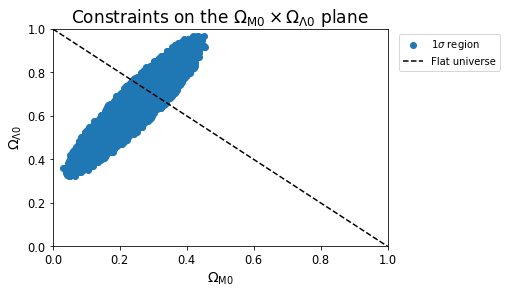
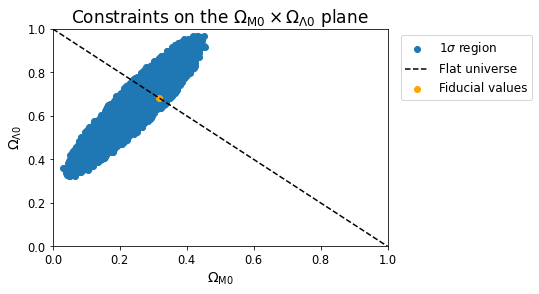
slight final updates to the plotting scripts

diff --git a/PowerSpectrumPlots.py b/PowerSpectrumPlots.py
@@ -171,7 +171,7 @@ for i in axes:
     i.yaxis.labelpad = 20
     i.set_xscale('log')
     i.set_xticks(xticks, labels=[str(x) for x in xticks])
-    i.tick_params(axis='both', labelsize=15)
+    i.tick_params(axis='both', labelsize=17)
 axes[0].set_title('CMB Temperature power spectrum', fontsize = 25, pad = 10)
 axes[0].set_ylabel(r'$\ell(\ell+1)C_\ell^{TT}/\,2\pi\ (\mu K^2)$', fontsize = 23)
 axes[0].plot(valuesdic1['ell'], valuesdic1['CellTT'], label = 'Numerical prediction')
@@ -204,7 +204,7 @@ ax.errorbar(EE_ell_errors['ell'], EE_ell_errors['Cell'], yerr = error_array_EE, 
 ax.set_xlim([2,2000])
 xticks = [500, 1000, 1500, 2000]
 ax.set_xticks(xticks, labels=[str(x) for x in xticks])
-ax.tick_params(axis='both', labelsize=17)
+ax.tick_params(axis='both', labelsize=19)
 
 axins = inset_axes(ax, width="30%", height="35%", loc="lower center")
 
@@ -220,6 +220,7 @@ axins.set_ylim(min(y[:42]), max(y[:42])+0.1)
 axins.tick_params(labelsize=8)
 axins.xaxis.set_ticks_position('top')
 axins.tick_params(axis='x', labelbottom=False, labeltop=True)
+axins.tick_params(axis='both', labelsize=12)
 
 ax.legend(fontsize = 16, loc = 'upper left')
 mark_inset(ax, axins, loc1=2, loc2=4, fc="none", ec="0.5")
@@ -227,7 +228,7 @@ mark_inset(ax, axins, loc1=2, loc2=4, fc="none", ec="0.5")
 
 plt.savefig(SPECTRUM_DIR + "/EE_Spectrum.png", bbox_inches = "tight")
 #%%
-plt.figure(9, figsize = (12, 6))
+plt.figure(9, figsize = (10, 6.5))
 
 plt.title('CMB temperature-polarization cross spectrum', fontsize = 25, pad = 10)
 plt.xlabel(r'$\ell$', fontsize = 25)
@@ -240,7 +241,7 @@ plt.errorbar(TE_ell_errors['ell'], TE_ell_errors['Cell'], yerr = error_array_TE,
 plt.xlim([2,2000])
 xticks = [500, 1000, 1500, 2000]
 plt.xticks(xticks, labels=[str(x) for x in xticks])
-plt.tick_params(axis='both', labelsize=17)
+plt.tick_params(axis='both', labelsize=19)
 
 plt.tight_layout()
 
@@ -271,7 +272,7 @@ plt.errorbar(SDSS_DR7_LRG_errors['k'], SDSS_DR7_LRG_errors['p_of_k'], yerr = SDS
 #Plot vertical line of equality scale
 plt.plot([k_eq * Mpc/h for i in range(100)], np.linspace(100, max([i * (h/Mpc)**3 for i in valuesdic2['pofk']]), 100), linestyle='--', color='red')
 
-plt.tick_params(axis='both', labelsize=15)
+plt.tick_params(axis='both', labelsize=19)
 plt.legend(fontsize = 17)
 plt.tight_layout()
 plt.savefig(SPECTRUM_DIR + "/Matter_power_Spectrum.png", bbox_inches = "tight")
@@ -286,7 +287,9 @@ for i in axes:
     i.set_xlabel(r'$k\eta_0$', fontsize = 18)
     i.tick_params(axis='both', labelsize=12)
     i.set_xlim([0,200])
-
+    i.grid()
+    i.tick_params(axis='both', labelsize=15)
+    
 axes[0].set_ylabel(r'$\Theta_{10}(k)$', fontsize = 18)
 axes[0].plot([i * eta0 for i in valuesdic2['k']], valuesdic2['Theta10'], label = r'$\ell=10$')
 axes[0].yaxis.labelpad = 20
@@ -305,7 +308,8 @@ for i in axes:
     i.set_xlabel(r'$k\eta_0$', fontsize = 18)
     i.tick_params(axis='both', labelsize=12)
     i.set_xlim([0,200])
- 
+    i.grid()
+    i.tick_params(axis='both', labelsize=15)
     
 axes[0].set_ylabel(r'$|\Theta_{10}|^2(k)/k\,(10^{-7} \eta_0)$', fontsize = 18)
 axes[0].plot([i * eta0 for i in valuesdic2['k']], [i**2*10**7/(j*eta0) for i,j in zip(valuesdic2['Theta10'], valuesdic2['k'])], label = r'$\ell=100$')

diff --git a/BackgroundPlots.py b/BackgroundPlots.py
@@ -220,7 +220,7 @@ plt.savefig(BACKGROUND_DIR + "/Hp_of_x.png")
 fig1, axes1 = plt.subplots(nrows=2, figsize=(8, 12), sharex=False)
 axes1[0].grid()
 axes1[0].set_xlabel('x', fontsize = 17)
-axes1[0].set_title(r'$\eta$ (Gpc)', fontsize = 17, pad = 5)
+axes1[0].set_title(r'$\eta$ (Gpc)', fontsize = 18, pad = 5)
 axes1[0].tick_params(axis='both', labelsize=13, pad = 10)
 
 axes1[0].set_yscale('log')
@@ -230,7 +230,7 @@ axes1[0].plot(valuesdic['x'][:1126], [i/(1000*Mpc) for i in valuesdic['eta']][:1
 
 axes1[0].set_ylim([min([i/(1000*Mpc) for i in valuesdic['eta'][:1126]]), 1.5*max([i/(1000*Mpc) for i in valuesdic['eta'][:1126]])])
 
-axes1[1].set_title('t (Gyr)', fontsize = 17, pad = 10)
+axes1[1].set_title('t (Gyr)', fontsize = 18, pad = 10)
 axes1[1].grid()
 axes1[1].set_xlabel("x", fontsize = 17)
 axes1[1].tick_params(axis='both', labelsize=13, pad = 10)
@@ -253,10 +253,10 @@ plt.savefig(BACKGROUND_DIR + "/t_and_eta_of_x.png")
 
 fig, axes = plt.subplots(nrows=2, figsize=(8, 12), sharex=False)
 
-axes[0].set_title(r"$\mathcal{H}\,'/\mathcal{H}$", fontsize = 16, pad = 10)
+axes[0].set_title(r"$\mathcal{H}\,'/\mathcal{H}$", fontsize = 18, pad = 10)
 axes[0].grid()
-axes[0].set_xlabel('x', fontsize = 14)
-axes[0].tick_params(axis='y', labelsize=11.5)
+axes[0].set_xlabel('x', fontsize = 16)
+axes[0].tick_params(axis='y', labelsize=13)
 
 axes[0].set_xlim([-15,5])
 
@@ -268,10 +268,10 @@ axes[0].plot(valuesdic['x'],[i/j for i,j in zip(valuesdic['dHpdx'], valuesdic['H
 #plot H''p/Hp
 
 
-axes[1].set_title(r"$\mathcal{H}\,''/\mathcal{H}$", fontsize = 16, pad = 10)
+axes[1].set_title(r"$\mathcal{H}\,''/\mathcal{H}$", fontsize = 18, pad = 10)
 axes[1].grid()
-axes[1].set_xlabel('x', fontsize = 14)
-axes[1].tick_params(axis='y', labelsize=11.5)
+axes[1].set_xlabel('x', fontsize = 16)
+axes[1].tick_params(axis='y', labelsize=13)
 axes[1].set_xlim([-15,5])
 
 axes[1].plot(valuesdic['x'],[i/j for i,j in zip(valuesdic['ddHpddx'], valuesdic['Hp'])])

diff --git a/Supernova_fit_plots.py b/Supernova_fit_plots.py
@@ -143,7 +143,9 @@ plt.ylim([0,1])
 plt.xlabel(r'$\Omega_{\rm M0}$', fontsize = 14)
 plt.scatter(accepted_omegaM, accepted_omegaL, label = '1$\sigma$ region')
 plt.plot(np.linspace(0,1,100),[1-i for i in np.linspace(0,1,100)], '--', color='black', label = 'Flat universe')
-plt.legend(bbox_to_anchor=(1.35, 1))
+plt.scatter(OmegaB+OmegaCDM, OmegaLambda, color='orange', label = 'Fiducial values')
+
+plt.legend(bbox_to_anchor=(1.45, 1), fontsize = 12)
 plt.savefig(SUPERNOVA_DIR + "/Omega_M_Lambda_Plane.png", bbox_inches='tight')
 
 #%%

diff --git a/PerturbationPlots.py b/PerturbationPlots.py
@@ -253,7 +253,7 @@ for i in axes:
     i.grid()
     i.tick_params(axis='both', labelsize=12)
     
-axes[0].set_title(r"$\Theta_{P0}$", fontsize = 20, pad = 10)
+axes[0].set_title(r"$\Theta_{0}^P$", fontsize = 20, pad = 10)
 axes[1].set_title(r"$\Theta_{P1}$", fontsize = 20, pad = 10) 
 axes[2].set_title(r"$\Theta_{P2}$", fontsize = 20, pad = 10) 
 
